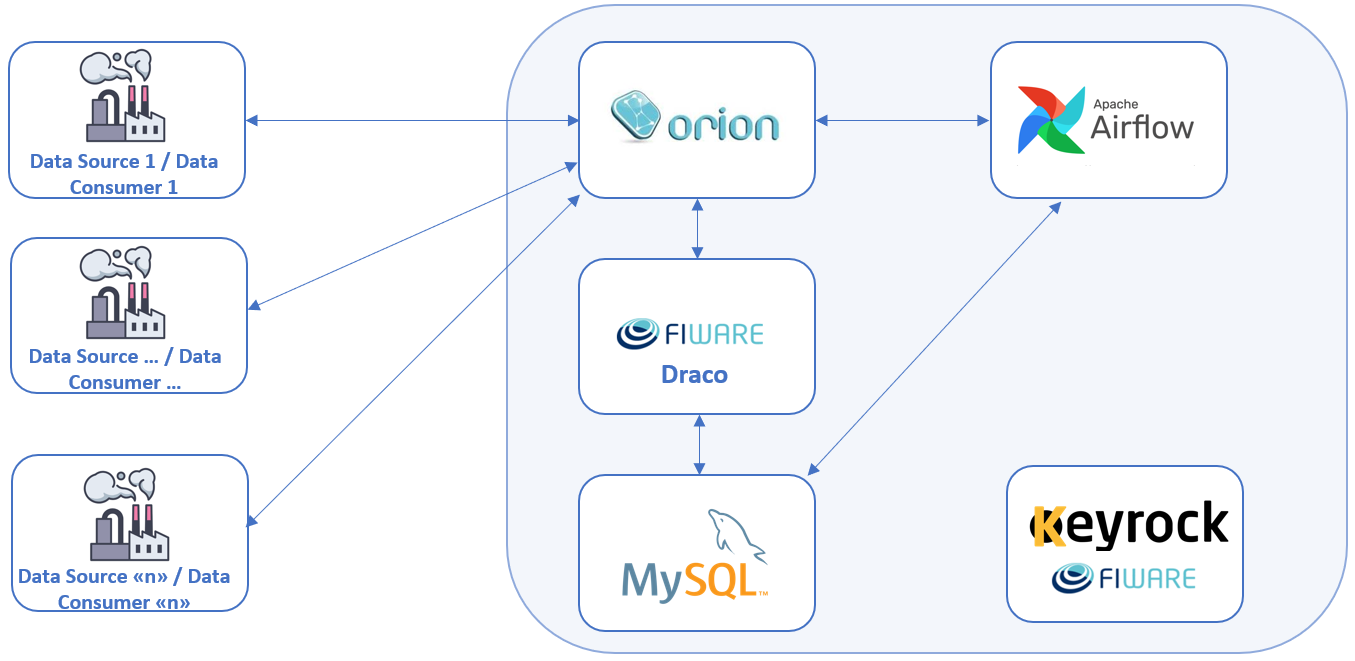
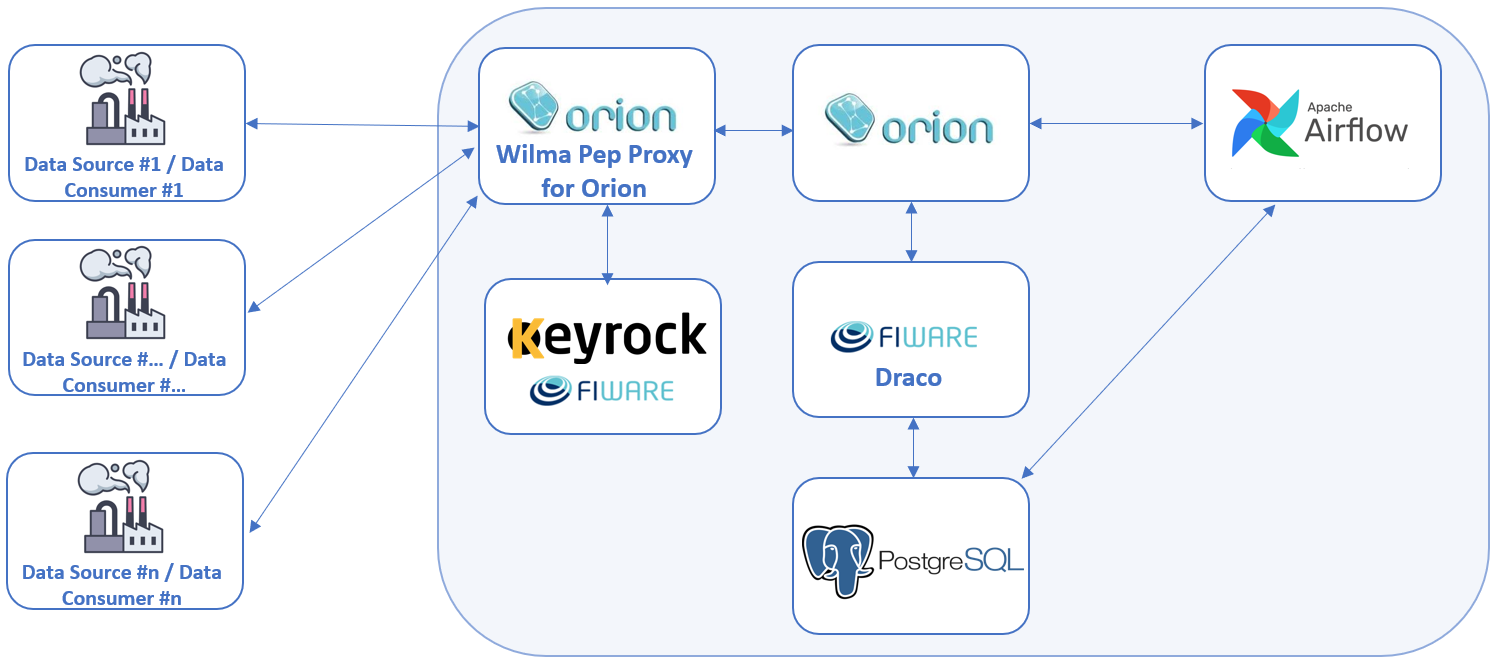
update architecture

diff --git a/README.md b/README.md
@@ -9,11 +9,12 @@ The Autonomic Manager has the role of autonomous AI Data pipeline coordinator an
 The idea is to listen to events coming from context information to identify patterns described by rules, in order to immediately react upon them by autonomously triggering actions.
 
 The selected components to allow that kind of behaviours are:
-- <b>FIWARE Draco (deprecated)</b>: based on Apache NiFi. NiFi is a data-flow system based on the flow-based concept programming designed to automate the flow of data in systems and support direct and scalable graphics.
-- <b>FIWARE ORION Context Broker (OCB)</b>: an implementation of the Publish/Subscribe Broker Generic Enabler (GE), able to manage the entire lifecycle of context information including updates, queries, registrations, and subscriptions. It based on NGSI-LD server implementation to manage context information and its availability. This GE allows to create context elements and manage them through updates and queries, and to subscribe to context information receiving a notification when a condition is satisfied, for example in case of context change
-- <b>MySQL</b>: a multiplatform relational database management system (RDBMS). It is an open-source component GNU General Public Licensed developed to be aligned with the ANSI SQL and ODBC SQL standards. MySQL is a service able to manage distributed application cloud native.
-- <b>Apache Airflow</b>: an open-source workflow management platform. Creating Airflow allow to programmatically author and schedule workflows and monitor them via the built-in Airflow user interface. It is written in Python, and workflows are created via Python scripts. Airflow is designed under the principle of "configuration as code". While other "configuration as code" workflow platforms exist using markup languages like XML, using Python allows developers to import libraries and classes to help them create their workflows.
-- <b>FIWARE KeyRock</b>: a FIWARE component for Identity Management. Using KeyRock (in conjunction with other security components such as PEP Proxy and Authzforce) it is added OAuth2-based authentication and authorization security to services and applications.
+- <b><a href="https://github.com/ging/fiware-draco">FIWARE Draco</a></b>: based on Apache NiFi. NiFi is a data-flow system based on the flow-based concept programming designed to automate the flow of data in systems and support direct and scalable graphics.
+- <b><a href="https://github.com/FIWARE/context.Orion-LD">FIWARE ORION-LD Context Broker (OCB)</a></b>: an implementation of the Publish/Subscribe Broker Generic Enabler (GE), able to manage the entire lifecycle of context information including updates, queries, registrations, and subscriptions. It based on NGSI-LD server implementation to manage context information and its availability. This GE allows to create context elements and manage them through updates and queries, and to subscribe to context information receiving a notification when a condition is satisfied, for example in case of context change
+- <b><a href="https://www.postgresql.org/">PostgreSQL</a></b>: a multiplatform relational database management system (RDBMS). It is an open-source able to manage distributed application cloud native and compatible with NGSI-LD and FIWARE Draco to archive context information.
+- <b><a href="https://airflow.apache.org/">Apache Airflow</a></b>: an open-source workflow management platform. Creating Airflow allow to programmatically author and schedule workflows and monitor them via the built-in Airflow user interface. It is written in Python, and workflows are created via Python scripts. Airflow is designed under the principle of "configuration as code". While other "configuration as code" workflow platforms exist using markup languages like XML, using Python allows developers to import libraries and classes to help them create their workflows.
+- <b><a href="https://github.com/FIWARE-GEs/keyrock">FIWARE KeyRock</a></b>: a FIWARE component for Identity Management. Using KeyRock (in conjunction with other security components such as PEP Proxy and Authzforce) it is added OAuth2-based authentication and authorization security to services and applications.
+- <b><a href="https://github.com/ging/fiware-pep-proxy">FIWARE Wilma Pep Proxy</a></b>: combined with Keyrock, it enforces access control to OCB. This means that only permitted users will be able to access OCB entities based only specific permissions and policies.
 </div>
 
 <img align="center" src="docs/imgs/Architecture.png" alt="AM logo">
@@ -25,6 +26,7 @@ The selected components to allow that kind of behaviours are:
 -   [Useful tools](docs/usefulTools.md)
 -   [Requirements](docs/requirements.md)
 -   [How to run](docs/howToRun.md)
+-   [How to Setup Idm](docs/howToSetupIdm.md)
 -   [Metadata](/NGSI-LD-Entities/NGSI-LD-Entities.md)
 
 <br>
